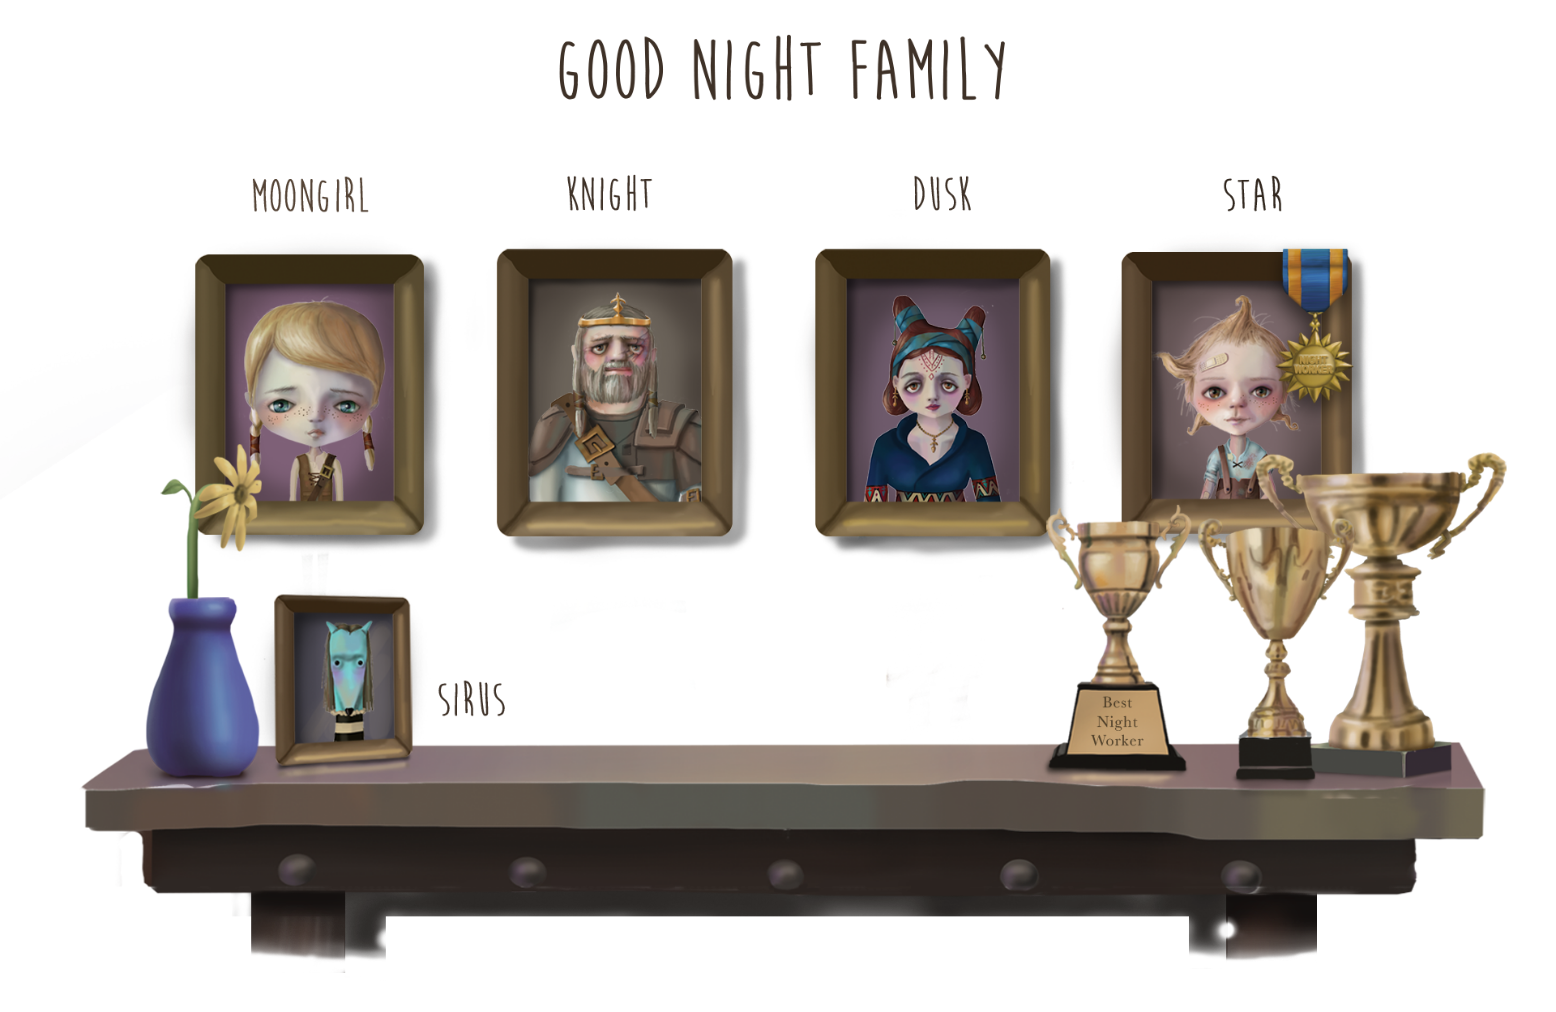
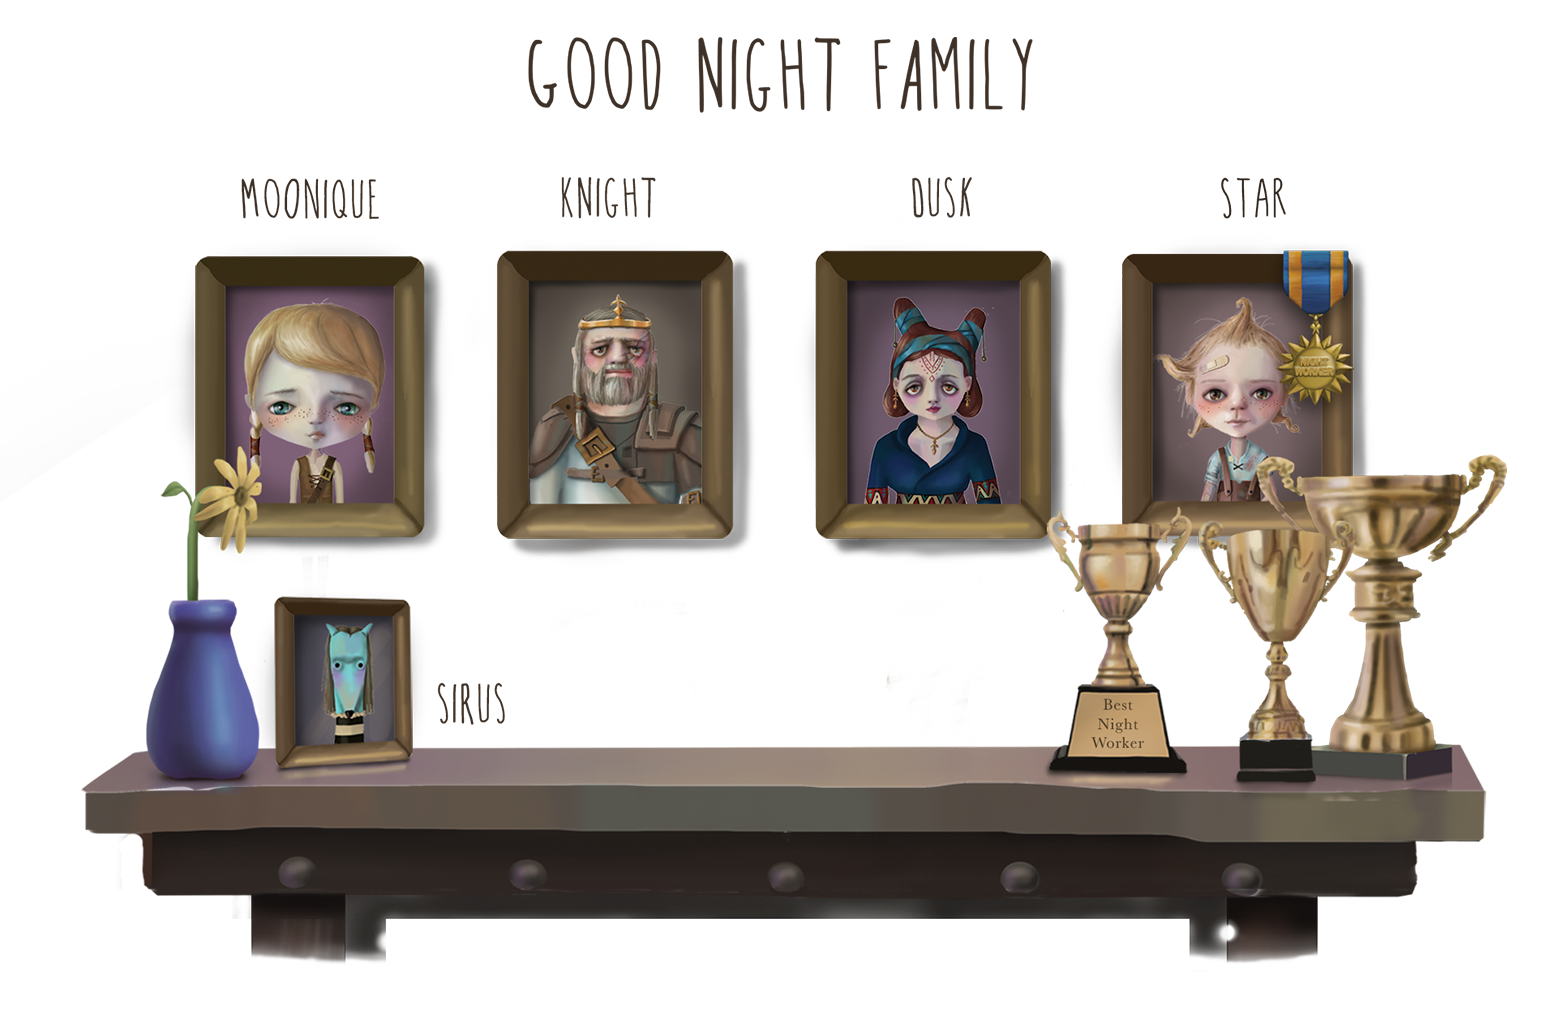
1

diff --git a/nightBeings.html b/nightBeings.html
@@ -5,10 +5,9 @@
   <meta charset="UTF-8" />
   <meta http-equiv="X-UA-Compatible" content="IE=edge" />
   <meta name="viewport" content="width=device-width, initial-scale=1.0" />
-  <link href="https://cdn.jsdelivr.net/npm/bootstrap@5.0.2/dist/css/bootstrap.min.css" rel="stylesheet"
-    integrity="sha384-EVSTQN3/azprG1Anm3QDgpJLIm9Nao0Yz1ztcQTwFspd3yD65VohhpuuCOmLASjC" crossorigin="anonymous" />
+  <link rel="stylesheet" href="https://cdnjs.cloudflare.com/ajax/libs/bootstrap/5.0.2/css/bootstrap.min.css">
   <link rel="stylesheet" href="./css/style.css" />
-  <link rel="stylesheet" href="https://cdn.jsdelivr.net/npm/swiper@9/swiper-bundle.min.css" />
+  <link rel="stylesheet" href="https://cdnjs.cloudflare.com/ajax/libs/Swiper/10.1.0/swiper-bundle.min.css" />
   <link rel="icon" href="./images/Icon.png" />
   <title>Moon Girl</title>
 </head>
@@ -62,7 +61,7 @@
     </div>
   </section>
 
-  <section class="nightBeings2 position-relative">
+  <section class="nightBeings2 position-relative" style="z-index: 9999999999999999;">
     <img class="seams2 position-absolute w-100" src="./images/Seams2.png" alt="" />
     <div class="container-fluid">
       <div class="row justify-content-center">
@@ -72,41 +71,66 @@
             <div onmouseover="mouseIn(1)" onmouseout="mouseOut(1)" class="position-relative w-100">
               <img class="w-100" src="./images/WhatIsMoonGirl.png" alt="">
               <div id="Answer1" class="position-absolute Answer d-none">
-                <img class="w-100" src="./images/What is Moongirl.png" alt=""> 
+                <img class="w-100" src="./images/What is Moongirl.png" alt="">
               </div>
             </div>
             <div onmouseover="mouseIn(2)" onmouseout="mouseOut(2)" class="position-relative w-100">
               <img class="w-100" src="./images/MintDate.png" alt="">
               <div id="Answer2" class="position-absolute Answer d-none">
-                <img class="w-100" src="./images/When is the Mint Date_.png" alt=""> 
+                <div class="w-100 position-relative">
+                  <img class="w-100" src="./images/When is the Mint Date_.png" alt="">
+                  <a class="position-absolute answerInsta" href="https://www.instagram.com/mooniqueworld/">
+                    <img class="w-100" src="./images/Insta.png" alt="">
+                  </a>
+                  <a class="position-absolute answerTwitter" href="https://twitter.com/MooniqueWorld">
+                    <img class="w-100" src="./images/Twitter.png" alt="">
+                  </a>
+                </div>
               </div>
             </div>
             <div onmouseover="mouseIn(3)" onmouseout="mouseOut(3)" class="position-relative w-100">
               <img class="w-100" src="./images/MintPrice.png" alt="">
               <div id="Answer3" class="position-absolute Answer d-none">
-                <img class="w-100" src="./images/What is the Mint price_.png" alt=""> 
+                <img class="w-100" src="./images/What is the Mint price_.png" alt="">
               </div>
             </div>
             <div onmouseover="mouseIn(4)" onmouseout="mouseOut(4)" class="position-relative w-100">
               <img class="w-100" src="./images/Supply.png" alt="">
               <div id="Answer4" class="position-absolute Answer d-none">
-                <img class="w-100" src="./images/What is the Supply_.png" alt=""> 
+                <img class="w-100" src="./images/What is the Supply_.png" alt="">
               </div>
             </div>
             <div onmouseover="mouseIn(5)" onmouseout="mouseOut(5)" class="position-relative w-100">
               <img class="w-100" src="./images/Utility.png" alt="">
               <div id="Answer5" class="position-absolute Answer d-none">
-                <img class="w-100" src="./images/What is the Utility_.png" alt=""> 
+                <img class="w-100" src="./images/What is the Utility_.png" alt="">
               </div>
             </div>
             <div onmouseover="mouseIn(6)" onmouseout="mouseOut(6)" class="position-relative w-100">
               <img class="w-100" src="./images/WhiteList.png" alt="">
               <div id="Answer6" class="position-absolute Answer d-none">
-                <img class="w-100" src="./images/How to get a Whitelist_.png" alt=""> 
+                <img class="w-100" src="./images/How to get a Whitelist_.png" alt="">
               </div>
             </div>
           </div>
         </div>
+      </div>
+    </div>
+  </section>
+
+
+
+
+
+
+
+
+
+  <section class="nightBeings3 position-relative">
+    <img class="seams2 position-absolute w-100" src="./images/Seams2.png" alt="" />
+    <div class="container-fluid">
+      <div class="row justify-content-center">
+
       </div>
       <div class="row justify-content-center">
         <a class="col-1 my-5" href="">
@@ -115,6 +139,8 @@
       </div>
     </div>
   </section>
+
+
 
   <script src="https://unpkg.com/swiper/swiper-bundle.min.js"></script>
   <script>

diff --git a/index.html b/index.html
@@ -1,63 +1,51 @@
 <!DOCTYPE html>
 <html lang="en">
-  <head>
-    <meta charset="UTF-8" />
-    <meta http-equiv="X-UA-Compatible" content="IE=edge" />
-    <meta name="viewport" content="width=device-width, initial-scale=1.0" />
-    <link
-      href="https://cdn.jsdelivr.net/npm/bootstrap@5.0.2/dist/css/bootstrap.min.css"
-      rel="stylesheet"
-      integrity="sha384-EVSTQN3/azprG1Anm3QDgpJLIm9Nao0Yz1ztcQTwFspd3yD65VohhpuuCOmLASjC"
-      crossorigin="anonymous"
-    />
-    <link rel="stylesheet" href="./css/style.css" />
-    <link rel="icon" href="./images/Icon.png" />
-    <title>Moon Girl</title>
-  </head>
+<head>
+  <meta charset="UTF-8" />
+  <meta http-equiv="X-UA-Compatible" content="IE=edge" />
+  <meta name="viewport" content="width=device-width, initial-scale=1.0" />
+  <link rel="stylesheet" href="https://cdnjs.cloudflare.com/ajax/libs/bootstrap/5.0.2/css/bootstrap.min.css">
+  <link rel="stylesheet" href="./css/style.css" />
+  <link rel="icon" href="./images/Icon.png" />
+  <title>Moon Girl</title>
+</head>
 
-  <body>
-    <section class="Home container-fluid position-relative">
-      <div class="row justify-content-center pt-5">
-        <img class="col-12 col-md-8 col-lg-7 col-xl-6 col-xxl-4" src="./images/Welcome.png" alt="" />
-      </div>
+<body>
+  <section class="Home container-fluid position-relative">
+    <div class="row justify-content-center pt-5">
+      <img class="col-12 col-md-8 col-lg-7 col-xl-6 col-xxl-4" src="./images/Welcome.png" alt="" />
+    </div>
 
-      <div class="text-center pt-5">
-        <video
-          id="player"
-          style="max-height: 45vh; cursor: pointer; max-width: 100%"
-          src="./images/2.webm"
-          type="video/webm"
-          href="./menu/"
-          onended="window.location.href = './home.html'"
-          onclick="this.muted = false;this.play();"
-          playsinline
-          muted
-        ></video
-        ><br />
-        <a class="bg-transparent border-0 button1"><img style="max-height: 35vh" src="./images/Press to Enter.png" alt="" /></a>
-      </div>
-    </section>
-  </body>
-  <script>
-    let player = document.getElementById("player"),
-      mov,
-      webm;
-    if (player.canPlayType) {
-      mov = "" !== player.canPlayType('video/mp4; codecs="hvc1"');
-      webm = "" !== player.canPlayType('video/webm; codecs="vp8, vorbis"');
-      if (mov) {
-        player.src = "./images/2.mov";
-        player.type = "video/mp4";
-        player.codecs = "hvc1";
+    <div class="text-center pt-5">
+      <video id="player" style="max-height: 45vh; cursor: pointer; max-width: 100%" src="./images/2.webm"
+        type="video/webm" href="./menu/" onended="window.location.href = './home.html'"
+        onclick="this.muted = false;this.play();" playsinline muted></video><br />
+      <a class="bg-transparent border-0 button1"><img style="max-height: 35vh" src="./images/Press to Enter.png"
+          alt="" /></a>
+    </div>
+  </section>
+</body>
+<script>
+  let player = document.getElementById("player"),
+    mov,
+    webm;
+  if (player.canPlayType) {
+    mov = "" !== player.canPlayType('video/mp4; codecs="hvc1"');
+    webm = "" !== player.canPlayType('video/webm; codecs="vp8, vorbis"');
+    if (mov) {
+      player.src = "./images/2.mov";
+      player.type = "video/mp4";
+      player.codecs = "hvc1";
+    } else {
+      if (webm) {
+        player.src = "./images/2.webm";
+        player.type = "video/webm";
+        player.codecs = "vp8, vorbis";
       } else {
-        if (webm) {
-          player.src = "./images/2.webm";
-          player.type = "video/webm";
-          player.codecs = "vp8, vorbis";
-        } else {
-          alert("browser not supported");
-        }
+        alert("browser not supported");
       }
     }
-  </script>
+  }
+</script>
+
 </html>

diff --git a/home.html b/home.html
@@ -4,14 +4,9 @@
     <meta charset="UTF-8" />
     <meta http-equiv="X-UA-Compatible" content="IE=edge" />
     <meta name="viewport" content="width=device-width, initial-scale=1.0" />
-    <link
-      href="https://cdn.jsdelivr.net/npm/bootstrap@5.0.2/dist/css/bootstrap.min.css"
-      rel="stylesheet"
-      integrity="sha384-EVSTQN3/azprG1Anm3QDgpJLIm9Nao0Yz1ztcQTwFspd3yD65VohhpuuCOmLASjC"
-      crossorigin="anonymous"
-    />
+    <link rel="stylesheet" href="https://cdnjs.cloudflare.com/ajax/libs/bootstrap/5.0.2/css/bootstrap.min.css">
     <link rel="stylesheet" href="./css/style.css" />
-    <link rel="stylesheet" href="https://cdn.jsdelivr.net/npm/swiper@9/swiper-bundle.min.css" />
+    <!-- <link rel="stylesheet" href="https://cdn.jsdelivr.net/npm/swiper@9/swiper-bundle.min.css" /> -->
     <link rel="icon" href="./images/Icon.png" />
     <title>Home</title>
   </head>
@@ -34,12 +29,12 @@
             </div>
           </div>
           <div class="dateBanner col-12 col-md-9 col-xl-7 col-xxl-5 position-absolute">
-            <img class="w-100" src="./images/Mint Date Banner.png" alt="" />
+            <!-- <img class="w-100" src="./images/Mint Date Banner.png" alt="" /> -->
           </div>
         </div>
         <div class="sochialDiv">
-          <a target="_blank" href="https://www.instagram.com/moongirlxyz/"><img class="sochial m-2 m-lg-2 m-xxl-4" src="./images/Insta.png" alt="" /></a> <br class="" />
-          <a target="_blank" href="https://twitter.com/Moongirlxyz"><img class="sochial m-2 m-lg-2 m-xxl-4" src="./images/Twitter.png" alt="" /></a>
+          <a target="_blank" href="https://www.instagram.com/mooniqueworld/"><img class="sochial m-2 m-lg-2 m-xxl-4" src="./images/Insta.png" alt="" /></a> <br class="" />
+          <a target="_blank" href="https://twitter.com/MooniqueWorld"><img class="sochial m-2 m-lg-2 m-xxl-4" src="./images/Twitter.png" alt="" /></a>
         </div>
       </div>
     </section>

diff --git a/exploring.html b/exploring.html
@@ -4,12 +4,7 @@
     <meta charset="UTF-8" />
     <meta http-equiv="X-UA-Compatible" content="IE=edge" />
     <meta name="viewport" content="width=device-width, initial-scale=1.0" />
-    <link
-      href="https://cdn.jsdelivr.net/npm/bootstrap@5.0.2/dist/css/bootstrap.min.css"
-      rel="stylesheet"
-      integrity="sha384-EVSTQN3/azprG1Anm3QDgpJLIm9Nao0Yz1ztcQTwFspd3yD65VohhpuuCOmLASjC"
-      crossorigin="anonymous"
-    />
+    <link rel="stylesheet" href="https://cdnjs.cloudflare.com/ajax/libs/bootstrap/5.0.2/css/bootstrap.min.css">
     <link rel="stylesheet" href="./css/style.css" />
     <link rel="stylesheet" href="https://cdn.jsdelivr.net/npm/swiper@9/swiper-bundle.min.css" />
     <link rel="icon" href="./images/Icon.png" />
@@ -29,14 +24,10 @@
         </div>
         <div class="row justify-content-center">
           <div class="moongirlStoryIMG col-12 col-md-7 col-lg-5">
-            <img class="w-100" src="./images/exploring-image-2.png" alt="" />
+            <img class="w-100" src="./images/Maps and logo.png" alt="" />
           </div>
         </div>
-        <div class="row justify-content-center">
-          <div class="moongirlStoryIMG col-12 col-md-7 col-lg-5">
-            <img class="w-100" src="./images/exploring-image-3.png" alt="" />
-          </div>
-        </div>
+        
         <div class="row justify-content-center">
           <div class="moongirlStoryIMG col-12 col-xl-9 col-xxl-8">
             <img class="w-100" src="./images/exploring-image-4.png" alt="" />

diff --git a/families.html b/families.html
@@ -4,12 +4,7 @@
     <meta charset="UTF-8" />
     <meta http-equiv="X-UA-Compatible" content="IE=edge" />
     <meta name="viewport" content="width=device-width, initial-scale=1.0" />
-    <link
-      href="https://cdn.jsdelivr.net/npm/bootstrap@5.0.2/dist/css/bootstrap.min.css"
-      rel="stylesheet"
-      integrity="sha384-EVSTQN3/azprG1Anm3QDgpJLIm9Nao0Yz1ztcQTwFspd3yD65VohhpuuCOmLASjC"
-      crossorigin="anonymous"
-    />
+    <link rel="stylesheet" href="https://cdnjs.cloudflare.com/ajax/libs/bootstrap/5.0.2/css/bootstrap.min.css">
     <link rel="stylesheet" href="./css/style.css" />
     <link rel="stylesheet" href="https://cdn.jsdelivr.net/npm/swiper@9/swiper-bundle.min.css" />
     <link rel="icon" href="./images/Icon.png" />

diff --git a/favoriteThings.html b/favoriteThings.html
@@ -4,12 +4,7 @@
     <meta charset="UTF-8" />
     <meta http-equiv="X-UA-Compatible" content="IE=edge" />
     <meta name="viewport" content="width=device-width, initial-scale=1.0" />
-    <link
-      href="https://cdn.jsdelivr.net/npm/bootstrap@5.0.2/dist/css/bootstrap.min.css"
-      rel="stylesheet"
-      integrity="sha384-EVSTQN3/azprG1Anm3QDgpJLIm9Nao0Yz1ztcQTwFspd3yD65VohhpuuCOmLASjC"
-      crossorigin="anonymous"
-    />
+    <link rel="stylesheet" href="https://cdnjs.cloudflare.com/ajax/libs/bootstrap/5.0.2/css/bootstrap.min.css">
     <link rel="stylesheet" href="./css/style.css" />
     <link rel="stylesheet" href="https://cdn.jsdelivr.net/npm/swiper@9/swiper-bundle.min.css" />
     <link rel="icon" href="./images/Icon.png" />

diff --git a/roadmap.html b/roadmap.html
@@ -4,12 +4,7 @@
     <meta charset="UTF-8" />
     <meta http-equiv="X-UA-Compatible" content="IE=edge" />
     <meta name="viewport" content="width=device-width, initial-scale=1.0" />
-    <link
-      href="https://cdn.jsdelivr.net/npm/bootstrap@5.0.2/dist/css/bootstrap.min.css"
-      rel="stylesheet"
-      integrity="sha384-EVSTQN3/azprG1Anm3QDgpJLIm9Nao0Yz1ztcQTwFspd3yD65VohhpuuCOmLASjC"
-      crossorigin="anonymous"
-    />
+    <link rel="stylesheet" href="https://cdnjs.cloudflare.com/ajax/libs/bootstrap/5.0.2/css/bootstrap.min.css">
     <link rel="stylesheet" href="./css/style.css" />
     <link rel="stylesheet" href="https://cdn.jsdelivr.net/npm/swiper@9/swiper-bundle.min.css" />
     <link rel="icon" href="./images/Icon.png" />

diff --git a/story.html b/story.html
@@ -4,12 +4,7 @@
     <meta charset="UTF-8" />
     <meta http-equiv="X-UA-Compatible" content="IE=edge" />
     <meta name="viewport" content="width=device-width, initial-scale=1.0" />
-    <link
-      href="https://cdn.jsdelivr.net/npm/bootstrap@5.0.2/dist/css/bootstrap.min.css"
-      rel="stylesheet"
-      integrity="sha384-EVSTQN3/azprG1Anm3QDgpJLIm9Nao0Yz1ztcQTwFspd3yD65VohhpuuCOmLASjC"
-      crossorigin="anonymous"
-    />
+    <link rel="stylesheet" href="https://cdnjs.cloudflare.com/ajax/libs/bootstrap/5.0.2/css/bootstrap.min.css">
     <link rel="stylesheet" href="./css/style.css" />
     <link rel="stylesheet" href="https://cdn.jsdelivr.net/npm/swiper@9/swiper-bundle.min.css" />
     <link rel="icon" href="./images/Icon.png" />

diff --git a/css/style.css b/css/style.css
@@ -103,6 +103,13 @@
 .nightBeings2 {
     background: url(../images/1.\ Background\ Wallpaper\ -\ for\ loop.png);
     background-size: 100vw;
+    z-index: 9999999999999999999999;
+}
+
+
+.nightBeings3 {
+    background: url(../images/1.\ Background\ Wallpaper\ -\ for\ loop.png);
+    background-size: 100vw;
 }
 
 .seams2 {
@@ -192,7 +199,7 @@
 }
 
 .Answer{
-    z-index: 1000;
+    z-index: 99999999999999999999;
     width: 100%;
     transform: translateX(-50%);
     left: 50%;
@@ -202,7 +209,16 @@
 
 
 
-
+.answerInsta{
+    width: 19%;
+    right: 60%;
+    top: 50%;
+}
+.answerTwitter{
+    width: 19%;
+    right: 25%;
+    top: 50%;
+}
 
 
 
